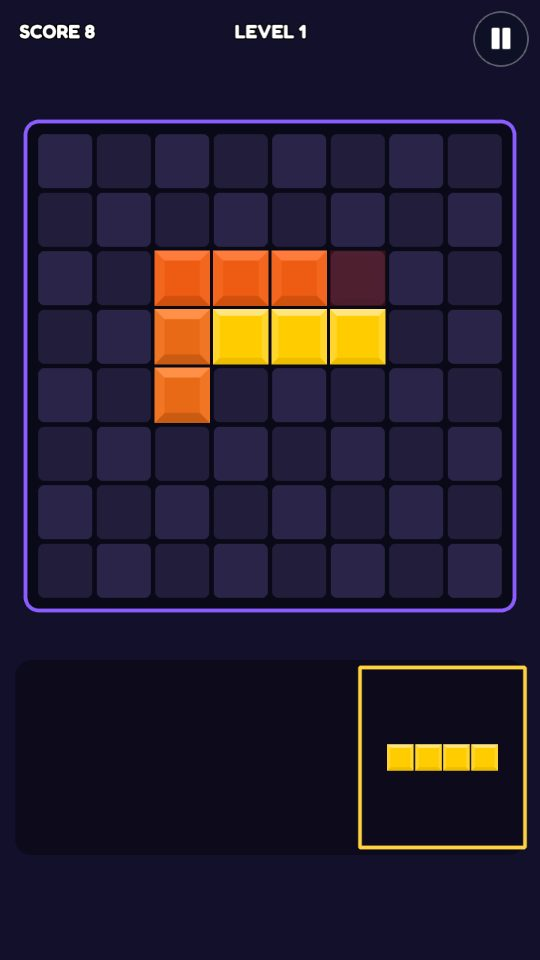
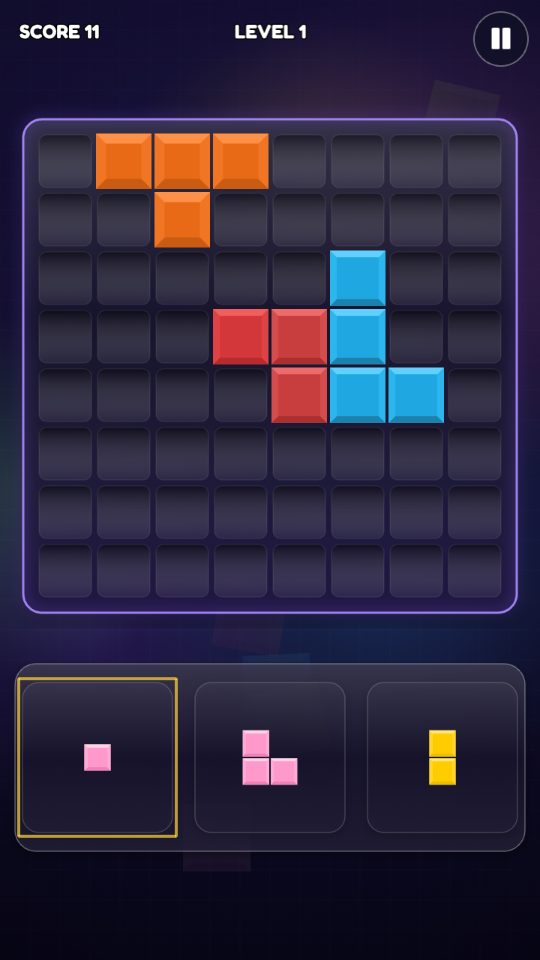
Block Burst (was Block Blast): new name, glass board and line beams
Name: Block Burst / Blok Patlaması, away from the name of an existing
game. The slug and platform id (block-blast / blockblast) stay, so
scores, votes and links keep working.

Polish
- a deep violet backdrop with colour blooms and big blocks drifting
- a frosted-glass board with recessed cells and a glowing rim; a glass
  tray with a well for each piece; a pulsing selection frame
- the lifted piece casts a shadow; lines a drop would clear glow in the
  piece's colour
- a ring on every drop, a beam of light along every cleared line
- the praise word and the combo count pop up in glass pills
- the menu: falling blocks, corner pieces clear of the title
- version 1.1.0

Claude-Session: https://claude.ai/code/session_0175vXZr811A8hQZq6oHnsLr

diff --git a/games/block-blast/PlayScene.ts b/games/block-blast/PlayScene.ts
@@ -1,5 +1,6 @@
 import Phaser from 'phaser';
 import { ArcadeScene, burst, shake, flash, popup, txt, t, rng } from '@core';
+import { makeBackdrop, makeBoard, makeFx, glass } from './art';
 
 /** puzzle2 square tiles (the orange set is numbered one higher). */
 export const BLOCK_TILES = [
@@ -68,25 +69,38 @@ export class PlayScene extends ArcadeScene {
   private sinceClear = 0;
   private level = 1;
   private locked = false;
+  private shades: Phaser.GameObjects.Image[] = [];
+  private comboPill!: Phaser.GameObjects.Container;
+  private comboText!: Phaser.GameObjects.Text;
 
   createGame(): void {
     this.board = []; this.tiles = []; this.tray = [null, null, null]; this.drag = null; this.sel = -1;
     this.combo = 0; this.sinceClear = 0; this.level = 1; this.locked = false; this.ghost = [];
 
-    const g = this.add.graphics();
-    g.fillStyle(0x000000, 0.45).fillRoundedRect(LEFT - 14, TOP - 14, N * CELL + 28, N * CELL + 28, 18);
-    g.lineStyle(5, 0x8b5cff, 1).strokeRoundedRect(LEFT - 14, TOP - 14, N * CELL + 28, N * CELL + 28, 18);
+    makeBackdrop(this); makeFx(this);
+    this.add.image(0, 0, 'bb-bg').setOrigin(0).setDepth(-10);
+    // a few big blocks drift slowly in the background
+    for (let i = 0; i < 6; i++) {
+      const b = this.add.image(rng.int(40, 680), rng.int(80, 1240), `blk${i % 6}`).setDisplaySize(90, 90).setAlpha(0.07).setAngle(rng.int(-30, 30)).setDepth(-9);
+      this.tweens.add({ targets: b, y: b.y - rng.int(60, 140), angle: b.angle + rng.int(-20, 20), duration: rng.int(8000, 14000), yoyo: true, repeat: -1, ease: 'Sine.easeInOut' });
+    }
+    this.add.image(LEFT - 38, TOP - 38, makeBoard(this, N, CELL)).setOrigin(0).setDepth(-1);
     for (let r = 0; r < N; r++) {
       this.board.push(new Array(N).fill(-1));
       this.tiles.push(new Array(N).fill(null));
-      for (let c = 0; c < N; c++) {
-        g.fillStyle((r + c) % 2 ? 0x221d3a : 0x2a2448, 1).fillRoundedRect(LEFT + c * CELL + 3, TOP + r * CELL + 3, CELL - 6, CELL - 6, 8);
-      }
     }
-    g.fillStyle(0x000000, 0.35).fillRoundedRect(20, TRAY_Y - 130, 680, 260, 22);
+    this.add.image(360, TRAY_Y, glass(this, 680, 250, 28)).setDepth(-1);
+    for (const x of SLOTS) this.add.image(x, TRAY_Y, glass(this, 200, 200, 22)).setDepth(-1).setAlpha(0.55);
+    this.shades = [];
+    for (let i = 0; i < 25; i++) this.shades.push(this.add.image(0, 0, 'bb-shade').setDisplaySize(CELL - 4, CELL - 4).setDepth(9).setVisible(false));
+    // combo badge above the board
+    const pillBg = this.add.image(0, 0, glass(this, 240, 54, 27));
+    this.comboText = txt(this, 0, 0, '', { title: true, size: 26, color: '#ffd23f' });
+    this.comboPill = this.add.container(360, TOP - 52, [pillBg, this.comboText]).setDepth(30).setAlpha(0);
     this.hilite = this.add.graphics().setDepth(3);
     for (let i = 0; i < 25; i++) this.ghost.push(this.add.image(0, 0, 'blk0').setDisplaySize(CELL - 4, CELL - 4).setAlpha(0.4).setVisible(false).setDepth(5));
-    this.selMark = this.add.rectangle(0, TRAY_Y, 220, 240).setStrokeStyle(5, 0xffd23f).setVisible(false);
+    this.selMark = this.add.rectangle(0, TRAY_Y, 210, 210).setStrokeStyle(4, 0xffd23f).setVisible(false);
+    this.tweens.add({ targets: this.selMark, alpha: 0.5, duration: 400, yoyo: true, repeat: -1 });
 
     this.input.on('pointerdown', (p: Phaser.Input.Pointer) => this.onDown(p));
     this.input.on('pointermove', (p: Phaser.Input.Pointer) => this.onMove(p));
@@ -177,6 +191,8 @@ export class PlayScene extends ArcadeScene {
   private follow(p: Phaser.Input.Pointer): void {
     const pc = this.drag!;
     pc.box.setPosition(p.x - (pc.w * CELL) / 2, p.y - pc.h * CELL - 70);
+    // the lifted piece casts a soft shadow just below it
+    pc.shape.forEach(([x, y], i) => this.shades[i].setVisible(true).setPosition(pc.box.x + x * CELL + CELL / 2 + 8, pc.box.y + y * CELL + CELL / 2 + 12).setAlpha(0.45));
     const c = Math.round((pc.box.x - LEFT) / CELL), r = Math.round((pc.box.y - TOP) / CELL);
     this.cur = { r, c };
     this.showGhost(pc, r, c);
@@ -186,6 +202,7 @@ export class PlayScene extends ArcadeScene {
     const pc = this.drag;
     if (!pc) return;
     this.drag = null;
+    this.shades.forEach((s) => s.setVisible(false));
     pc.box.setDepth(10);
     if (!this.isOver && this.fits(pc.shape, this.cur.r, this.cur.c)) this.place(pc, this.cur.r, this.cur.c);
     else { this.toTray(pc, true); this.clearGhost(); this.sfx('back', { volume: 0.35 }); }
@@ -245,9 +262,9 @@ export class PlayScene extends ArcadeScene {
     });
     if (!ok) return;
     const { rows, cols } = this.fullLines(pc.shape, r, c);
-    this.hilite.fillStyle(0xffffff, 0.18);
-    rows.forEach((rr) => this.hilite.fillRect(LEFT, TOP + rr * CELL, N * CELL, CELL));
-    cols.forEach((cc) => this.hilite.fillRect(LEFT + cc * CELL, TOP, CELL, N * CELL));
+    const tint = TINTS[pc.color];
+    rows.forEach((rr) => { this.hilite.fillStyle(tint, 0.22).fillRoundedRect(LEFT, TOP + rr * CELL, N * CELL, CELL, 10); this.hilite.lineStyle(3, tint, 0.9).strokeRoundedRect(LEFT, TOP + rr * CELL, N * CELL, CELL, 10); });
+    cols.forEach((cc) => { this.hilite.fillStyle(tint, 0.22).fillRoundedRect(LEFT + cc * CELL, TOP, CELL, N * CELL, 10); this.hilite.lineStyle(3, tint, 0.9).strokeRoundedRect(LEFT + cc * CELL, TOP, CELL, N * CELL, 10); });
   }
 
   private clearGhost(): void {
@@ -283,6 +300,8 @@ export class PlayScene extends ArcadeScene {
       this.tiles[r + y][c + x] = img;
     }
     this.sfxAt(rng.pick(['place1', 'place2', 'place3']), LEFT + (c + pc.w / 2) * CELL, { volume: 0.6 });
+    const ring = this.add.image(LEFT + (c + pc.w / 2) * CELL, TOP + (r + pc.h / 2) * CELL, 'bb-ring').setTint(TINTS[pc.color]).setScale(0.3).setBlendMode(Phaser.BlendModes.ADD).setDepth(6);
+    this.tweens.add({ targets: ring, scale: 0.6 + Math.max(pc.w, pc.h) * 0.35, alpha: 0, duration: 340, ease: 'Cubic.easeOut', onComplete: () => ring.destroy() });
     this.addScore(pc.shape.length);
 
     const { rows, cols } = this.fullLines(null, 0, 0);
@@ -295,8 +314,13 @@ export class PlayScene extends ArcadeScene {
       const cx = LEFT + (c + pc.w / 2) * CELL, cy = TOP + (r + pc.h / 2) * CELL;
       this.addScore(pts, cx, cy);
       const word = lines >= 3 ? t('amazing') : lines === 2 ? t('great') : t('good');
-      popup(this, 360, TOP - 50 + 420, word, '#5dff7a', 34);
+      this.banner(word, lines >= 3 ? '#ff79c6' : lines === 2 ? '#3ea8ff' : '#5dff7a');
       if (this.combo > 1) {
+        this.comboText.setText(`${t('combo')} x${this.combo}`);
+        this.tweens.killTweensOf(this.comboPill);
+        this.comboPill.setAlpha(1).setScale(0.6);
+        this.tweens.add({ targets: this.comboPill, scale: 1, duration: 260, ease: 'Back.easeOut' });
+        this.tweens.add({ targets: this.comboPill, alpha: 0, delay: 1400, duration: 400 });
         this.hud.setCenter(`${t('combo')} x${this.combo}`);
         this.sfx('combo', { volume: 0.6, exact: true, rate: Math.min(1.4, 1 + (this.combo - 2) * 0.07), delay: 0.12 });
         this.time.delayedCall(1200, () => !this.isOver && this.updateHud());
@@ -308,6 +332,15 @@ export class PlayScene extends ArcadeScene {
 
     if (this.tray.every((x) => !x)) this.refill();
     this.time.delayedCall(lines ? 420 : 50, () => this.checkStuck());
+  }
+
+  /** A glass pill with a word that pops up over the board and fades. */
+  private banner(word: string, color: string): void {
+    const tx = txt(this, 0, 0, word, { title: true, size: 40, color });
+    const bg = this.add.image(0, 0, glass(this, Math.ceil((tx.width + 70) / 10) * 10, 80, 40));
+    const box = this.add.container(360, TOP + (N * CELL) / 2, [bg, tx]).setDepth(40).setScale(0.3);
+    this.tweens.add({ targets: box, scale: 1, duration: 260, ease: 'Back.easeOut' });
+    this.tweens.add({ targets: box, alpha: 0, y: box.y - 40, delay: 700, duration: 350, onComplete: () => box.destroy() });
   }
 
   private clearLines(rows: number[], cols: number[], color: number): void {
@@ -329,6 +362,14 @@ export class PlayScene extends ArcadeScene {
         onComplete: () => img.destroy(),
       });
     }
+    // a beam of light sweeps along every cleared line
+    const beam = (x: number, y: number, horiz: boolean) => {
+      const b = this.add.image(x, y, 'bb-beam').setDisplaySize(N * CELL + 40, CELL * 1.3).setAngle(horiz ? 0 : 90).setTint(TINTS[color]).setBlendMode(Phaser.BlendModes.ADD).setDepth(25);
+      const core = this.add.image(x, y, 'bb-beam').setDisplaySize(N * CELL + 40, CELL * 0.4).setAngle(horiz ? 0 : 90).setBlendMode(Phaser.BlendModes.ADD).setDepth(26);
+      this.tweens.add({ targets: [b, core], alpha: 0, scaleY: 0.05, duration: 420, ease: 'Quad.easeIn', onComplete: () => { b.destroy(); core.destroy(); } });
+    };
+    rows.forEach((r) => beam(LEFT + (N * CELL) / 2, TOP + r * CELL + CELL / 2, true));
+    cols.forEach((c) => beam(LEFT + c * CELL + CELL / 2, TOP + (N * CELL) / 2, false));
     const n = rows.length + cols.length;
     this.sfx(n >= 3 ? 'clear3' : n === 2 ? 'clear2' : 'clear1', { volume: n >= 3 ? 0.75 : n === 2 ? 0.65 : 0.55 });
     shake(this, 0.004 + 0.003 * (rows.length + cols.length), 180);

diff --git a/games/block-blast/art.ts b/games/block-blast/art.ts
@@ -1,0 +1,115 @@
+import Phaser from 'phaser';
+
+/** Painted textures for Block Burst: a deep backdrop, a frosted-glass board and tray, glows and beams. */
+
+type Ctx = CanvasRenderingContext2D;
+
+function make(scene: Phaser.Scene, key: string, w: number, h: number, draw: (c: Ctx) => void): void {
+  if (scene.textures.exists(key)) return;
+  const tex = scene.textures.createCanvas(key, w, h);
+  if (!tex) return;
+  draw(tex.getContext());
+  tex.refresh();
+}
+
+function rr(c: Ctx, x: number, y: number, w: number, h: number, r: number): void {
+  c.beginPath();
+  c.moveTo(x + r, y);
+  c.arcTo(x + w, y, x + w, y + h, r);
+  c.arcTo(x + w, y + h, x, y + h, r);
+  c.arcTo(x, y + h, x, y, r);
+  c.arcTo(x, y, x + w, y, r);
+  c.closePath();
+}
+
+function seeded(seed: number): () => number {
+  let a = seed >>> 0;
+  return () => {
+    a = (a + 0x6d2b79f5) >>> 0;
+    let t = Math.imul(a ^ (a >>> 15), a | 1);
+    t ^= t + Math.imul(t ^ (t >>> 7), t | 61);
+    return ((t ^ (t >>> 14)) >>> 0) / 4294967296;
+  };
+}
+
+/** Night-violet backdrop with soft colour blooms and a faint grid. */
+export function makeBackdrop(scene: Phaser.Scene): void {
+  make(scene, 'bb-bg', 720, 1280, (c) => {
+    const g = c.createLinearGradient(0, 0, 0, 1280);
+    g.addColorStop(0, '#1b1446'); g.addColorStop(0.5, '#120e30'); g.addColorStop(1, '#0a0820');
+    c.fillStyle = g; c.fillRect(0, 0, 720, 1280);
+    const rnd = seeded(8);
+    for (const col of ['#8b5cff', '#3ea8ff', '#ff79c6', '#5dd65d', '#ffd23f']) {
+      const x = rnd() * 720, y = rnd() * 1280, r = 220 + rnd() * 260;
+      const b = c.createRadialGradient(x, y, 0, x, y, r);
+      b.addColorStop(0, col + '33'); b.addColorStop(1, col + '00');
+      c.fillStyle = b; c.fillRect(0, 0, 720, 1280);
+    }
+    c.strokeStyle = 'rgba(255,255,255,0.025)'; c.lineWidth = 1;
+    for (let x = 0; x < 720; x += 40) { c.beginPath(); c.moveTo(x, 0); c.lineTo(x, 1280); c.stroke(); }
+    for (let y = 0; y < 1280; y += 40) { c.beginPath(); c.moveTo(0, y); c.lineTo(720, y); c.stroke(); }
+    const v = c.createRadialGradient(360, 640, 320, 360, 640, 860);
+    v.addColorStop(0, 'rgba(0,0,0,0)'); v.addColorStop(1, 'rgba(0,0,0,0.5)');
+    c.fillStyle = v; c.fillRect(0, 0, 720, 1280);
+  });
+}
+
+/** The board: a frosted-glass slab with recessed cells and a glowing rim. */
+export function makeBoard(scene: Phaser.Scene, n: number, cell: number): string {
+  const pad = 18, size = n * cell + pad * 2, key = 'bb-board';
+  make(scene, key, size + 40, size + 40, (c) => {
+    c.translate(20, 20);
+    c.save(); c.shadowColor = 'rgba(0,0,0,0.6)'; c.shadowBlur = 26; c.shadowOffsetY = 10;
+    rr(c, 0, 0, size, size, 26); c.fillStyle = 'rgba(16,12,40,0.88)'; c.fill(); c.restore();
+    const g = c.createLinearGradient(0, 0, 0, size);
+    g.addColorStop(0, 'rgba(255,255,255,0.14)'); g.addColorStop(0.4, 'rgba(255,255,255,0.03)'); g.addColorStop(1, 'rgba(139,92,255,0.12)');
+    rr(c, 0, 0, size, size, 26); c.fillStyle = g; c.fill();
+    c.save(); c.shadowColor = '#8b5cff'; c.shadowBlur = 18;
+    rr(c, 1, 1, size - 2, size - 2, 25); c.strokeStyle = 'rgba(170,140,255,0.9)'; c.lineWidth = 3; c.stroke(); c.restore();
+    for (let r = 0; r < n; r++) for (let k = 0; k < n; k++) {
+      const x = pad + k * cell + 4, y = pad + r * cell + 4, s = cell - 8;
+      rr(c, x, y, s, s, 10);
+      const cg = c.createLinearGradient(0, y, 0, y + s);
+      cg.addColorStop(0, 'rgba(0,0,0,0.45)'); cg.addColorStop(1, 'rgba(255,255,255,0.06)');
+      c.fillStyle = cg; c.fill();
+      c.strokeStyle = 'rgba(255,255,255,0.07)'; c.lineWidth = 1.5; c.stroke();
+    }
+  });
+  return key;
+}
+
+/** A frosted glass panel (tray, labels). */
+export function glass(scene: Phaser.Scene, w: number, h: number, r = 22): string {
+  const key = `bb-glass-${w}x${h}`, pad = 12;
+  make(scene, key, w + pad * 2, h + pad * 2, (c) => {
+    c.save(); c.shadowColor = 'rgba(0,0,0,0.5)'; c.shadowBlur = 14; c.shadowOffsetY = 5;
+    rr(c, pad, pad, w, h, r); c.fillStyle = 'rgba(16,12,40,0.7)'; c.fill(); c.restore();
+    const g = c.createLinearGradient(0, pad, 0, pad + h);
+    g.addColorStop(0, 'rgba(255,255,255,0.16)'); g.addColorStop(0.5, 'rgba(255,255,255,0.03)'); g.addColorStop(1, 'rgba(255,255,255,0.07)');
+    rr(c, pad, pad, w, h, r); c.fillStyle = g; c.fill();
+    c.lineWidth = 1.5; c.strokeStyle = 'rgba(255,255,255,0.32)'; c.stroke();
+  });
+  return key;
+}
+
+export function makeFx(scene: Phaser.Scene): void {
+  make(scene, 'bb-glow', 128, 128, (c) => {
+    const g = c.createRadialGradient(64, 64, 0, 64, 64, 64);
+    g.addColorStop(0, 'rgba(255,255,255,1)'); g.addColorStop(0.3, 'rgba(255,255,255,0.4)'); g.addColorStop(1, 'rgba(255,255,255,0)');
+    c.fillStyle = g; c.fillRect(0, 0, 128, 128);
+  });
+  // a soft horizontal beam (rotated for columns)
+  make(scene, 'bb-beam', 256, 64, (c) => {
+    const g = c.createLinearGradient(0, 0, 0, 64);
+    g.addColorStop(0, 'rgba(255,255,255,0)'); g.addColorStop(0.5, 'rgba(255,255,255,1)'); g.addColorStop(1, 'rgba(255,255,255,0)');
+    c.fillStyle = g; c.fillRect(0, 0, 256, 64);
+  });
+  make(scene, 'bb-ring', 128, 128, (c) => {
+    c.shadowColor = '#ffffff'; c.shadowBlur = 10;
+    c.beginPath(); c.arc(64, 64, 50, 0, Math.PI * 2); c.strokeStyle = '#ffffff'; c.lineWidth = 6; c.stroke();
+  });
+  // the shadow a lifted piece casts on the board
+  make(scene, 'bb-shade', 64, 64, (c) => {
+    rr(c, 4, 4, 56, 56, 12); c.fillStyle = 'rgba(0,0,0,0.5)'; c.fill();
+  });
+}

diff --git a/games/block-blast/main.ts b/games/block-blast/main.ts
@@ -1,6 +1,7 @@
 import { launch, loadAudio, kenney, type GameMeta } from '@core';
 import meta from './game.json';
 import { PlayScene, BLOCK_TILES } from './PlayScene';
+import { makeBackdrop } from './art';
 
 const J = 'oga/junkala-sfx/';
 
@@ -29,11 +30,18 @@ launch({
   },
   menuDecor(scene) {
     const { width, height } = scene.scale;
-    const cells = [[0, 0], [1, 0], [2, 0], [1, 1], [0, 3], [0, 4], [1, 4]];
+    makeBackdrop(scene);
+    scene.add.image(0, 0, 'bb-bg').setOrigin(0);
+    // two little pieces in the corners, and blocks falling softly behind the menu
+    const cells = [[0, 0], [1, 0], [2, 0], [1, 1]];
     cells.forEach(([c, r], i) => {
-      scene.add.image(70 + c * 56, height * 0.06 + r * 56, `blk${i % 6}`).setDisplaySize(54, 54).setAlpha(0.8);
-      scene.add.image(width - 70 - c * 56, height * 0.8 + r * 56, `blk${(i + 3) % 6}`).setDisplaySize(54, 54).setAlpha(0.8);
+      scene.add.image(70 + c * 56, height * 0.05 + r * 56, `blk${i % 6}`).setDisplaySize(54, 54).setAlpha(0.85);
+      scene.add.image(width - 70 - c * 56, height * 0.79 + r * 56, `blk${(i + 3) % 6}`).setDisplaySize(54, 54).setAlpha(0.85);
     });
+    for (let i = 0; i < 8; i++) {
+      const b = scene.add.image(80 + i * 80, -60, `blk${i % 6}`).setDisplaySize(48, 48).setAlpha(0.18);
+      scene.tweens.add({ targets: b, y: height + 60, angle: 90, duration: 7000 + i * 700, delay: i * 900, repeat: -1 });
+    }
   },
   scenes: [PlayScene],
   strings: {

diff --git a/platform/arcade-catalog.ts b/platform/arcade-catalog.ts
@@ -159,7 +159,7 @@ export const ARCADE_GAMES: SeedGame[] = [
   }),
   arcadeGame({
     slug: 'block-blast',
-    title: { en: 'Block Blast', tr: 'Blok Patlat' },
+    title: { en: 'Block Burst', tr: 'Blok Patlaması' },
     description: {
       en: 'Fit three pieces onto the 8x8 board and blast full rows and columns. Chain combos and score until nothing fits!',
       tr: 'Üç parçayı 8x8 tahtaya yerleştir, dolan satır ve sütunları patlat. Kombo yap, parçalar sığmayana kadar puan topla!',
@@ -169,6 +169,7 @@ export const ARCADE_GAMES: SeedGame[] = [
     tags: ['block', 'blast', 'retro'],
     orientation: 'portrait',
     input: ['touch', 'keyboard', 'mouse'],
+    version: '1.1.0',
   }),
   arcadeGame({
     slug: 'block-drop',

diff --git a/games/block-blast/index.html b/games/block-blast/index.html
@@ -6,7 +6,7 @@
     <meta name="theme-color" content="#201e1d" />
     <meta name="apple-mobile-web-app-capable" content="yes" />
     <link rel="icon" href="../../assets/ayvago/favicon.png" />
-    <title>Block Blast · Ayvago Games</title>
+    <title>Block Burst · Ayvago Games</title>
     <style>
       html, body { margin: 0; height: 100%; overflow: hidden; background: #0e0d12; touch-action: none; -webkit-user-select: none; user-select: none; -webkit-tap-highlight-color: transparent; }
       #game { position: fixed; inset: 0; }

diff --git a/docs/GAMES.md b/docs/GAMES.md
@@ -94,7 +94,7 @@ Columns: slug · EN title / TR title · concept · suggested assets (`public/ass
 | slug | title | concept | assets | o |
 |---|---|---|---|---|
 | bubble-pop | Bubble Pop / Balon Patlat | bubble shooter: aim, wall bounces, match 3, ceiling drops | puzzle2 balls | P |
-| block-blast | Block Blast / Blok Patlat | place 3 pieces on 8x8, clear rows/cols, game over when no fit | puzzle tiles | P |
+| block-blast | Block Burst / Blok Patlaması | place 3 pieces on 8x8, clear rows/cols, game over when no fit | puzzle tiles | P |
 | lights-out | Lights Out / Işıkları Söndür | toggle cross patterns, solvable generated levels | drawn | P |
 | pipe-flow | Pipe Flow / Boru Akışı | rotate pipes to connect source to drain before water flows | puzzle2 pipes | P |
 | hex-merge | Hex Merge / Altıgen Birleştir | drop numbered hex pieces on hex board, merge 3 of a kind | hexagon / drawn | P |
